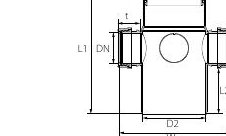
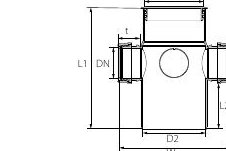
WIP(huliot): v40 — p20_c=160, p21_b=165 (D1+tick removed) — local only
Self-check 20/20 hand-tuned photos clean. Awaiting user ack before
extending overlay to the remaining 65 photos.

NO PUSH per user instruction.

https://claude.ai/code/session_012bheWSnPnqWCqTErtCLGfz

diff --git a/app_flutter/scripts/crop_huliot.py b/app_flutter/scripts/crop_huliot.py
@@ -107,10 +107,10 @@ PER_BAND_PHOTO_H = {
     # Page 20 — drop gutters (re-measured from PAGE overlay — base was cut)
     (20, 'a'): 145,    # photo 160-290 incl. base; diagram starts ~305
     (20, 'b'): 165,    # photo 520-680; diagram ~695
-    (20, 'c'): 175,    # photo 895-1055; diagram ~1070
+    (20, 'c'): 160,    # photo 895-1055; D1 tick at y=1060 trimmed
     # Page 21 — drains scale with size (re-measured)
     (21, 'a'): 118,    # drain 80/50 photo 170-275; diagram ~290
-    (21, 'b'): 180,    # drain 140/50 photo 460-625; diagram ~640
+    (21, 'b'): 165,    # drain 140/50 photo 460-625; tick at y=635 trimmed
     (21, 'c'): 180,    # drain 245/50 photo 840-1010; diagram ~1025
     # Page 22 — drains open
     (22, 'a'): 155,
